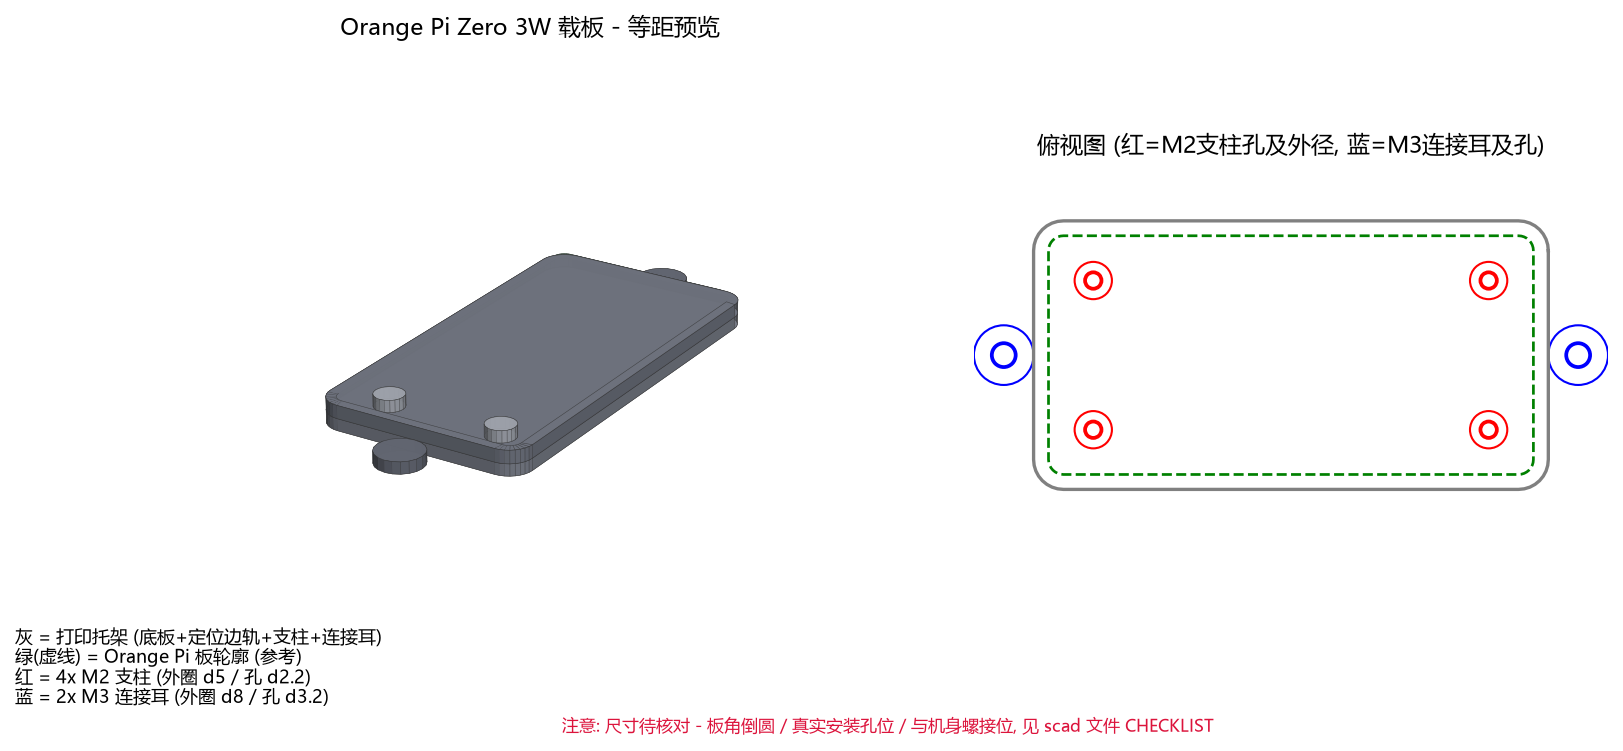
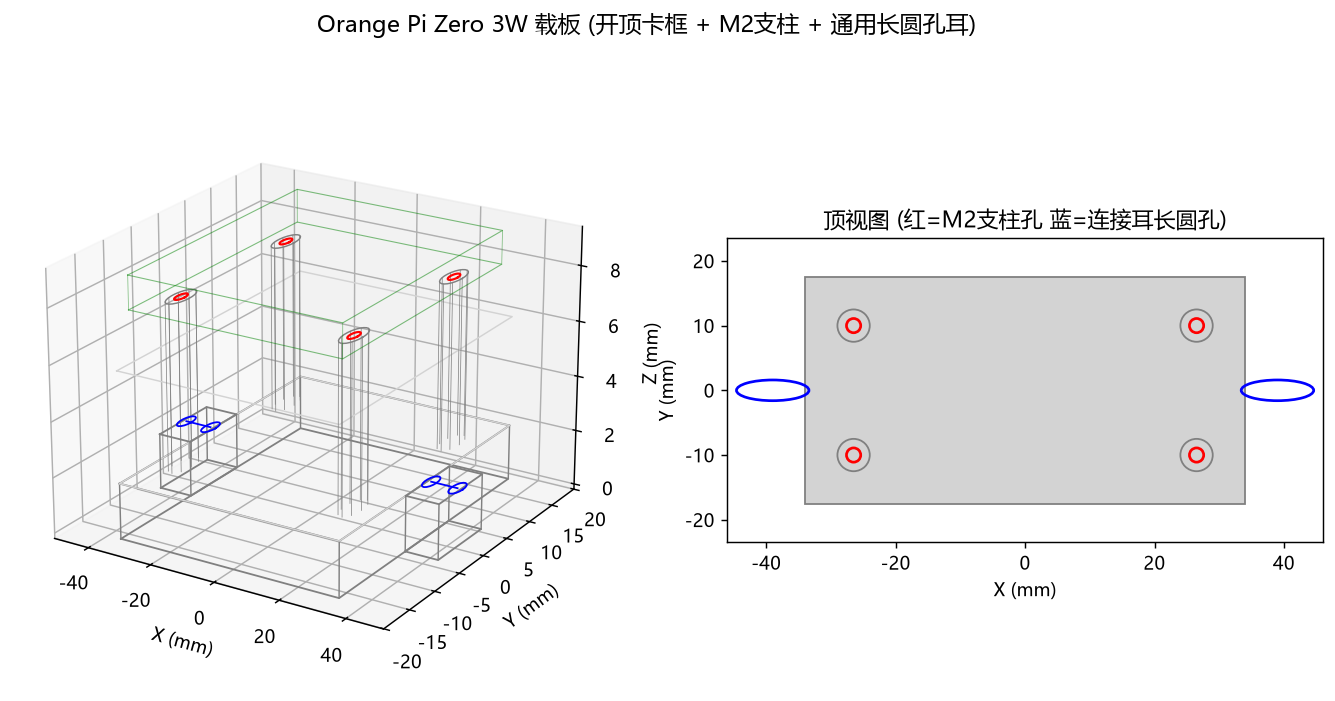
双版本推进: Radxa/OrangePi 总览 + Orange Pi 载板长圆耳
用户指令「两个版本都推进」=> 新增 docs/hardware/microduck-双版本推进-Radxa与OrangePi-2026-11-06.md: 两路机械/电气/进度/下一步并排, 含对比表。

Orange Pi 载板连接耳升级为通用长圆孔耳 (沿 x ±4mm 可调, M3/扎带固定, 不依赖精确螺接位即可打样): scad 加 slot_2d/lug_ear 模块, 渲染脚本改画长圆 (Ellipse), 重渲 2D 俯视图确认两蓝耳对称、四红孔在板内。

Radxa 版机械零改动 (作者 CAD 实机即 Radxa) + 40-pin 兼容 RPi HAT + 总线 1Mbps 可行 + 15 颗 EEPROM 免写, 已闭环; Orange Pi 版载板保留为专属件。待授权: 拉 418MB STEP 定准螺接位 / 装 OpenSCAD 导 STL / 核 kissqy HAT UART 引脚。

diff --git a/cad/render_carrier.py b/cad/render_carrier.py
@@ -1,171 +1,129 @@
-# -*- coding: utf-8 -*-
+"""Render cad/orangepi_zero3w_carrier.scad as a preview PNG (isometric + 2D top).
+
+Pure matplotlib reconstruction of the OpenSCAD geometry -- no OpenSCAD/cadquery needed.
+Geometry parameters MUST stay in sync with the .scad file.
 """
-渲染 cad/orangepi_zero3w_carrier.scad 定义的那块载板的"效果图"。
-本机无 OpenSCAD/cadquery, 故用 matplotlib 按 scad 参数重建几何并做等距渲染。
-输出: cad/orangepi_zero3w_carrier_preview.png
-参数与 scad 文件保持一致 (改图先改 scad, 这里只是看效果)。
-"""
-import os
-import math
-import numpy as np
 import matplotlib
 matplotlib.use("Agg")
 import matplotlib.pyplot as plt
 from matplotlib import font_manager
-from matplotlib.patches import Circle
-from mpl_toolkits.mplot3d.art3d import Poly3DCollection
+from matplotlib.patches import Ellipse, Rectangle, Circle
+import numpy as np
+import math
+import os
 
-# 注册一个系统中文字体 (避免标注乱码)
-for fp in (r"C:/Windows/Fonts/msyh.ttc", r"C:/Windows/Fonts/msyhbd.ttc",
-           r"C:/Windows/Fonts/simhei.ttf"):
+# 注册中文字体（避免方块）
+for fp in [r"C:/Windows/Fonts/msyh.ttc", r"C:/Windows/Fonts/msyhbd.ttc"]:
     if os.path.exists(fp):
         font_manager.fontManager.addfont(fp)
-        plt.rcParams["font.sans-serif"] = ["Microsoft YaHei", "SimHei"]
+        plt.rcParams["font.sans-serif"] = ["Microsoft YaHei"]
         plt.rcParams["axes.unicode_minus"] = False
         break
 
-# ---- 参数 (与 orangepi_zero3w_carrier.scad 同步) ----
-BOARD_L, BOARD_W, BOARD_T, BOARD_R = 65.0, 32.0, 1.2, 2.0
-wall, base_t, rail_h = 2.0, 2.0, BOARD_T + 1.0
-stand_h, screw_d, tol = 2.0, 2.2, 0.3
-# 坐标系: 板中心在原点; 四角内缩 6mm
-standoffs = [(-(BOARD_L / 2 - 6.0), -(BOARD_W / 2 - 6.0)),
-             (BOARD_L / 2 - 6.0, -(BOARD_W / 2 - 6.0)),
-             (-(BOARD_L / 2 - 6.0), BOARD_W / 2 - 6.0),
-             (BOARD_L / 2 - 6.0, BOARD_W / 2 - 6.0)]
-lug_d = 3.2
-# 连接耳: 左右伸出, 居中 (y=0)
-lugs = [(-(BOARD_L / 2 + wall + 4.0), 0), (BOARD_L / 2 + wall + 4.0, 0)]
-
-LIGHT = np.array([0.4, 0.5, 0.78]); LIGHT /= np.linalg.norm(LIGHT)
-
-
-def rr_pts(l, w, r, seg=8):
-    """圆角矩形轮廓, 闭合 (逆时针采样)。"""
-    r2 = min(r, min(l, w) / 2 - 0.01)
-    hw, hh = l / 2, w / 2
-    corners = [(hw - r2, hh - r2), (-hw + r2, hh - r2),
-               (-hw + r2, -hh + r2), (hw - r2, -hh + r2)]
-    a0 = [0, 90, 180, 270]
-    pts = []
-    for (cx, cy), a in zip(corners, a0):
-        for k in range(seg + 1):
-            ang = (a + k * 90.0 / seg) * math.pi / 180
-            pts.append((cx + r2 * math.cos(ang), cy + r2 * math.sin(ang)))
-    return pts
+# ---- geometry (kept in sync with orangepi_zero3w_carrier.scad) ----
+BOARD_L, BOARD_W, BOARD_R, BOARD_T = 65.0, 32.0, 2.0, 1.2
+wall, tol, base_t, rail_h, stand_h = 1.5, 0.3, 2.0, 4.0, 6.0
+screw_d, standoff_d = 2.2, 5.0
+lug_d, lug_slot, lug_w, lug_ext = 3.2, 8.0, 9.0, 10.0
+standoffs = [
+    (-(BOARD_L / 2 - 6.0), -(BOARD_W / 2 - 6.0)),
+    (BOARD_L / 2 - 6.0, -(BOARD_W / 2 - 6.0)),
+    (-(BOARD_L / 2 - 6.0), BOARD_W / 2 - 6.0),
+    (BOARD_L / 2 - 6.0, BOARD_W / 2 - 6.0),
+]
+lugs = [
+    (-(BOARD_L / 2 + wall + lug_ext / 2), 0),
+    (BOARD_L / 2 + wall + lug_ext / 2, 0),
+]
+bx_out, by_out = BOARD_L / 2 + wall, BOARD_W / 2 + wall
 
 
-def extrude(pts, z0, z1):
-    n = len(pts)
-    out = []
-    for i in range(n):
-        j = (i + 1) % n
-        out.append([(*pts[i], z0), (*pts[j], z0), (*pts[j], z1), (*pts[i], z1)])
-    out.append([(*p, z1) for p in pts])
-    out.append([(*p, z0) for p in pts])
-    return out
+def rect_corners(x0, y0, x1, y1):
+    return [(x0, y0), (x1, y0), (x1, y1), (x0, y1), (x0, y0)]
 
 
-def ring(pts_out, pts_in, z):
-    n = len(pts_out)
-    out = []
-    for i in range(n):
-        j = (i + 1) % n
-        out.append([(*pts_out[i], z), (*pts_out[j], z), (*pts_in[j], z), (*pts_in[i], z)])
-    return out
+def draw_3d(ax):
+    # base plate
+    c = rect_corners(-bx_out, -by_out, bx_out, by_out)
+    for z in (0.0, base_t):
+        xs = [p[0] for p in c]; ys = [p[1] for p in c]
+        ax.plot(xs, ys, [z] * 5, color="gray", lw=1)
+    for p in c[:-1]:
+        ax.plot([p[0], p[0]], [p[1], p[1]], [0, base_t], color="gray", lw=0.8)
+    # rail
+    z2 = base_t + rail_h
+    for z in (base_t, z2):
+        xs = [p[0] for p in c]; ys = [p[1] for p in c]
+        ax.plot(xs, ys, [z] * 5, color="lightgray", lw=0.8)
+    # standoffs (M2)
+    for cx, cy in standoffs:
+        zz = base_t
+        for ang in range(0, 360, 40):
+            a = math.radians(ang)
+            x = cx + standoff_d / 2 * math.cos(a); y = cy + standoff_d / 2 * math.sin(a)
+            ax.plot([x, x], [y, y], [zz, zz + stand_h], color="gray", lw=0.4)
+        th = np.linspace(0, 2 * math.pi, 24)
+        ax.plot(cx + standoff_d / 2 * np.cos(th), cy + standoff_d / 2 * np.sin(th),
+                [zz + stand_h] * 24, color="gray", lw=0.8)
+        ax.plot(cx + screw_d / 2 * np.cos(th), cy + screw_d / 2 * np.sin(th),
+                [zz + stand_h] * 24, color="red", lw=1.2)
+    # lugs (rect ear + slot)
+    for cx, cy in lugs:
+        ex0, ex1 = cx - lug_ext / 2, cx + lug_ext / 2
+        ey0, ey1 = cy - lug_w / 2, cy + lug_w / 2
+        ce = rect_corners(ex0, ey0, ex1, ey1)
+        for z in (0.0, base_t):
+            xs = [p[0] for p in ce]; ys = [p[1] for p in ce]
+            ax.plot(xs, ys, [z] * 5, color="gray", lw=1)
+        for p in ce[:-1]:
+            ax.plot([p[0], p[0]], [p[1], p[1]], [0, base_t], color="gray", lw=0.8)
+        th = np.linspace(0, 2 * math.pi, 18)
+        for exx in (cx - lug_slot / 2, cx + lug_slot / 2):
+            ax.plot(exx + lug_d / 2 * np.cos(th), cy + lug_d / 2 * np.sin(th),
+                    [base_t] * 18, color="blue", lw=1)
+        ax.plot([cx - lug_slot / 2, cx + lug_slot / 2], [cy, cy],
+                [base_t, base_t], color="blue", lw=1)
+    # board ref (green, not printed)
+    cb = rect_corners(-BOARD_L / 2, -BOARD_W / 2, BOARD_L / 2, BOARD_W / 2)
+    zt = base_t + stand_h
+    xs = [p[0] for p in cb]; ys = [p[1] for p in cb]
+    ax.plot(xs, ys, [zt] * 5, color="green", lw=0.6, alpha=0.5)
+    ax.plot(xs, ys, [zt + BOARD_T] * 5, color="green", lw=0.6, alpha=0.5)
+    for p in cb[:-1]:
+        ax.plot([p[0], p[0]], [p[1], p[1]], [zt, zt + BOARD_T], color="green", lw=0.4, alpha=0.5)
+    ax.set_xlabel("X (mm)"); ax.set_ylabel("Y (mm)"); ax.set_zlabel("Z (mm)")
+    ax.view_init(elev=22, azim=-58)
 
 
-def cylinder(cx, cy, r, h, z0, seg=20):
-    pts = [(cx + r * math.cos(2 * math.pi * k / seg),
-            cy + r * math.sin(2 * math.pi * k / seg)) for k in range(seg)]
-    return extrude(pts, z0, z0 + h)
+def draw_2d(ax):
+    ax.add_patch(Rectangle((-bx_out, -by_out), 2 * bx_out, 2 * by_out,
+                           facecolor="lightgray", edgecolor="gray", lw=1))
+    for cx, cy in standoffs:
+        ax.add_patch(Circle((cx, cy), standoff_d / 2, fill=False, edgecolor="gray", lw=1))
+        ax.add_patch(Circle((cx, cy), screw_d / 2, fill=False, edgecolor="red", lw=1.5))
+    for cx, cy in lugs:
+        ax.add_patch(Ellipse((cx, cy), lug_slot + lug_d, lug_d,
+                             fill=False, edgecolor="blue", lw=1.5))
+    ax.set_xlim(-bx_out - 12, bx_out + 12)
+    ax.set_ylim(-by_out - 6, by_out + 6)
+    ax.set_aspect("equal")
+    ax.set_xlabel("X (mm)"); ax.set_ylabel("Y (mm)")
+    ax.set_title("顶视图 (红=M2支柱孔 蓝=连接耳长圆孔)")
 
 
-# ---- 组装几何 (3D) ----
-polys = []
-out_base = rr_pts(BOARD_L + 2 * wall, BOARD_W + 2 * wall, BOARD_R + wall)
-polys += [(p, (0.55, 0.57, 0.62)) for p in extrude(out_base, 0, base_t)]
-out_rail = rr_pts(BOARD_L + 2 * wall, BOARD_W + 2 * wall, BOARD_R + wall)
-in_rail = rr_pts(BOARD_L + 2 * tol, BOARD_W + 2 * tol, BOARD_R)
-polys += [(p, (0.50, 0.52, 0.57)) for p in extrude(out_rail, base_t, base_t + rail_h)]
-polys += [(p, (0.50, 0.52, 0.57)) for p in ring(out_rail, in_rail, base_t + rail_h)]
-for sx, sy in standoffs:
-    polys += [(p, (0.72, 0.74, 0.78)) for p in cylinder(sx, sy, 2.5, stand_h, base_t)]
-for gx, gy in lugs:
-    polys += [(p, (0.45, 0.47, 0.52)) for p in cylinder(gx, gy, 4.0, base_t, 0)]
-br = rr_pts(BOARD_L, BOARD_W, BOARD_R)
-board_polys = [(p, (0.10, 0.70, 0.25)) for p in
-               extrude(br, base_t + stand_h, base_t + stand_h + BOARD_T)]
+def main():
+    fig = plt.figure(figsize=(13, 6))
+    ax1 = fig.add_subplot(1, 2, 1, projection="3d")
+    ax2 = fig.add_subplot(1, 2, 2)
+    draw_3d(ax1)
+    draw_2d(ax2)
+    fig.suptitle("Orange Pi Zero 3W 载板 (开顶卡框 + M2支柱 + 通用长圆孔耳)",
+                 fontsize=13)
+    out = os.path.join(os.path.dirname(__file__),
+                       "orangepi_zero3w_carrier_preview.png")
+    fig.savefig(out, dpi=130, bbox_inches="tight")
+    print("wrote", out)
 
 
-def shade(poly, base):
-    p = np.array(poly, "float64")
-    n = np.cross(p[1] - p[0], p[2] - p[0])
-    ln = np.linalg.norm(n)
-    if ln < 1e-9:
-        n = np.array([0, 0, 1])
-    else:
-        n = n / ln
-    intensity = 0.35 + 0.65 * abs(np.dot(n, LIGHT))
-    return tuple(min(1.0, c * intensity) for c in base)
-
-
-def add_coll(ax, plist, alpha=0.96):
-    verts = [np.array(p) for p, _ in plist]
-    cols = [shade(p, b) for p, b in plist]
-    pc = Poly3DCollection(verts, alpha=alpha, facecolor=cols,
-                          linewidths=0.25, edgecolors=(0.2, 0.2, 0.2, 0.8))
-    ax.add_collection3d(pc)
-
-
-span_x = BOARD_L + 2 * wall + 16
-span_y = BOARD_W + 2 * wall + 16
-span_z = base_t + stand_h + BOARD_T + 3
-
-fig = plt.figure(figsize=(12, 5.4), dpi=150)
-ax1 = fig.add_subplot(1, 2, 1, projection="3d")
-ax2 = fig.add_subplot(1, 2, 2)
-
-# 等距立体图
-add_coll(ax1, polys, alpha=0.96)
-add_coll(ax1, board_polys, alpha=0.38)
-ax1.view_init(elev=24, azim=32)
-ax1.set_box_aspect((span_x, span_y, span_z))
-ax1.set_xlim(-span_x / 2, span_x / 2)
-ax1.set_ylim(-span_y / 2, span_y / 2)
-ax1.set_zlim(0, span_z)
-ax1.set_axis_off()
-ax1.set_title("Orange Pi Zero 3W 载板 - 等距预览", fontsize=11, pad=4)
-
-# 2D 俯视图 (无遮挡, 精确标孔位)
-ax2.set_aspect("equal")
-ax2.axis("off")
-bo = rr_pts(BOARD_L + 2 * wall, BOARD_W + 2 * wall, BOARD_R + wall)
-ax2.plot([p[0] for p in bo] + [bo[0][0]], [p[1] for p in bo] + [bo[0][1]],
-         color="gray", lw=1.6)
-bb = rr_pts(BOARD_L, BOARD_W, BOARD_R)
-ax2.plot([p[0] for p in bb] + [bb[0][0]], [p[1] for p in bb] + [bb[0][1]],
-         color="green", lw=1.3, ls="--")
-for (sx, sy) in standoffs:
-    ax2.add_patch(Circle((sx, sy), 2.5, fill=False, ec="red", lw=1.0))
-    ax2.add_patch(Circle((sx, sy), screw_d / 2, fill=False, ec="red", lw=1.8))
-for (gx, gy) in lugs:
-    ax2.add_patch(Circle((gx, gy), 4.0, fill=False, ec="blue", lw=1.0))
-    ax2.add_patch(Circle((gx, gy), lug_d / 2, fill=False, ec="blue", lw=1.8))
-ax2.set_xlim(-span_x / 2, span_x / 2)
-ax2.set_ylim(-span_y / 2, span_y / 2)
-ax2.set_title("俯视图 (红=M2支柱孔及外径, 蓝=M3连接耳及孔)", fontsize=11, pad=4)
-
-fig.text(0.015, 0.06,
-         "灰 = 打印托架 (底板+定位边轨+支柱+连接耳)\n"
-         "绿(虚线) = Orange Pi 板轮廓 (参考)\n"
-         "红 = 4x M2 支柱 (外圈 d5 / 孔 d2.2)\n"
-         "蓝 = 2x M3 连接耳 (外圈 d8 / 孔 d3.2)",
-         fontsize=8.5, va="bottom")
-fig.text(0.50, 0.03,
-         "注意: 尺寸待核对 - 板角倒圆 / 真实安装孔位 / 与机身螺接位, 见 scad 文件 CHECKLIST",
-         fontsize=8, color="crimson", ha="center")
-
-out_png = "cad/orangepi_zero3w_carrier_preview.png"
-fig.savefig(out_png, dpi=150, bbox_inches="tight", facecolor="white")
-print("wrote", out_png)
+if __name__ == "__main__":
+    main()

diff --git a/docs/hardware/microduck-双版本推进-Radxa与OrangePi-2026-11-06.md b/docs/hardware/microduck-双版本推进-Radxa与OrangePi-2026-11-06.md
@@ -1,0 +1,73 @@
+# 双版本推进总览：Radxa Zero 3W vs Orange Pi Zero 3W
+
+_2026-11-06。用户指令「两个版本都推进」。本文把两条主控路线的机械件适配、电气兼容、当前进度与下一步并排写清，作为 `microduck-飞特版3D打印件-OrangePi适配清单-2026-11-06.md` 的上层总览。_
+
+## 0. 结论速览
+
+- **两版都值得推进，不是二选一**：
+  - **Radxa 版** = 与作者 CAD（fanhao375 飞特版）+ kissqy 镜像**完全对齐**，机械件零改动、舵机总线 1 Mbps 直接可行。
+  - **Orange Pi 版** = 板子便宜/现成、板型与 Pi Zero 孔距一致（仅宽 2 mm），但 **40-pin 电气不兼容 RPi HAT**、**A733 总线限 500 kbps**，需自建主板载板。
+- **机械件层面**：Radxa 版直接用 fanhao375 飞特版 v2.2（它实机就是 Radxa）；Orange Pi 版用本仓自建的 `cad/orangepi_zero3w_carrier.scad`。
+
+## 1. 两版关键参数对比
+
+| 维度 | Radxa Zero 3W（RK3566） | Orange Pi Zero 3W（A733） |
+|---|---|---|
+| 板型尺寸 | 65 × 30 mm（Pi Zero 板型） | 65 × 32 mm（孔距与 Pi Zero 一致，仅宽 2 mm） |
+| 40-pin GPIO | 官方确认「compatible with most SBC accessories」（docs.radxa.com）；GPIO 3.3 V | 引脚定义 ≠ 树莓派（第三方评测确认孔距一致但电气定义不同） |
+| 舵机总线波特率 | RK3566 UART 支持 1 Mbps（kissqy 实机跑 1 Mbps，上游主仓在 Zero 3W 上跑 1 Mbps） | A733 UART7 分频限制（`feetech.rs:34` 原话 *1 Mbit/s is not*）→ 只能 500 kbps |
+| 机械件 | **零改动**：fanhao375 飞特版 CAD 实机即 Radxa（README 第 357 行） | 主板托架/HAT 支架/摄像头支架需自建（本仓 `cad/orangepi_zero3w_carrier.scad`） |
+| HAT | 可直插 RPi 形态 kissqy HAT（40-pin 物理兼容） | 不能直插（40-pin 定义不同）；需转接或绕开 |
+| 现有软件镜像 | kissqy V167/ fanhao 镜像本就是 Radxa，开箱即用 | 需验证或自建；总线 500k 需改 `BAUD_RATE` 常量 |
+| 主要风险 | HAT 舵机总线 UART 需避开 Pin 8/10 调试串口 | HAT 出路（转接/绕开）+ 连接耳螺接位待定 |
+
+## 2. Orange Pi Zero 3W 版（A733）
+
+### 2.1 机械件（自建中）
+
+- 作者飞特版按 Radxa（Pi Zero 板型 65×30）建模；Orange Pi（65×32）**孔距一致、仅宽 2 mm** → 开顶卡框容得下 2 mm 边余量，躯干/腿/壳/头/电池 31 件直接通用。
+- 真正要自建的是 **主板托架 / HAT 支架 / 摄像头支架** 三处（飞特版按 RPi 做）。本仓已建 `cad/orangepi_zero3w_carrier.scad`（参数化、开顶卡框 + 四角 M2 支柱 + **通用可调长圆孔连接耳**），并渲染 `cad/orangepi_zero3w_carrier_preview.png`（已修过坐标系 bug，2D 俯视图确认 4 红孔在板内、2 蓝耳对称）。
+- 连接耳当前为「通用耳」：长圆孔沿 x 方向 ±4 mm 可调，装机时微调后用 M3 螺丝或扎带固定到飞特版躯干，**不依赖精确螺接位即可打样**。
+
+### 2.2 电气兼容性（已查，硬约束）
+
+- **40-pin 定义 ≠ 树莓派** → BOM 第 3 项「树莓派机器人 HAT」不能直插。
+- **A733 UART7 分频限制** → 舵机总线只能 500 kbps（这是那块板的分频限制，不是舵机的；`feetech.rs:34` 原文针对 A733，与 Radxa 无关）。
+- 三条出路（已在适配清单列）：**A** 主板改回 Radxa（零机械改动）/ **B** 重做 HAT 接口 / **C** 绕开 HAT 用 URT-2 + imu_to_dxl 小板（本仓阶段 2 默认）。推荐 **C** 若坚持 Orange Pi。
+
+### 2.3 当前进度与下一步
+
+- ✅ 载板 scad + 效果图完成（连接耳已升级为通用长圆孔耳）。
+- ⏳ 下一步：① 拉 418 MB `SolidWorks-FT2026-10-20.zip`（含 13 个 STEP + 原 RPi 托架）把连接耳螺接位**定准**（待授权带宽）；② 本机装 OpenSCAD 把 scad 导出可打印 STL；③ 电气定 HAT 出路（推荐 C 绕开 HAT）。
+
+## 3. Radxa Zero 3W 版（RK3566）
+
+### 3.1 机械件（零改动，已闭环）
+
+- 作者 fanhao375 飞特版 CAD **实机主控就是 Radxa Zero 3W**（README 第 357 行：Radxa Zero 3W，RK3566，Pi Zero 板型 65×30）。
+- kissqy 镜像主控也是 Radxa（本仓裁决纪要 + HD1910 软件方案 §11.5 确认）。
+- ⇒ 33 打印件 + 原 RPi 托架**直接用**，无需自建任何机械件。本仓 Orange Pi 载板在该路线下**作废**（仅作为 Orange Pi 分支的专用件保留）。
+
+### 3.2 电气兼容性（已查，可行）
+
+- 40-pin **官方确认兼容 RPi 配件**（docs.radxa.com 原话 *compatible with most SBC accessories on the market*），GPIO 电压 3.3 V（最高 3.63 V）。
+- ⚠ 但 **Pin 8 / 10 = UART2_M0**，是**调试串口 / 默认 U-Boot 控制台**（默认 1.5 Mbps），官方**不建议用作普通 UART**（会中断启动）。RK3566 其他 UART（如 Pin 16/18 = UART4_M1、Pin 32/33 = UART5_M1）可用。
+- 总线 1 Mbps 可行：RK3566 datasheet 写 UART "up to 4 Mbps"，kissqy 实机在 Radxa 上跑 1 Mbps 舵机总线（ttyS2），上游主仓也在 Zero 3W 上跑 1 Mbps。
+- ⇒ 15 颗舵机 EEPROM **一颗都不用写**（`feetech.rs:34` 的 500k 限制是 A733 的，非 Radxa）；`BAUD_RATE` 保持 1 Mbps，`BAUD_REGISTER_VALUE` 保持 0。
+
+### 3.3 当前进度与下一步
+
+- ✅ 机械零改动确认 + 40-pin 兼容确认 + 1 Mbps 可行确认 + EEPROM 免写确认。
+- ⏳ 下一步：① 核 **kissqy HAT 的舵机总线接到 Radxa 哪个物理 UART**（避开 Pin 8/10 调试串口；本地 kissqy 资料只有 docs 无 PCB 引脚表，需查其硬件工程）；② 备料：Radxa ZERO 3W 2GB + kissqy HAT + fanhao375 飞特版打印件。
+
+## 4. 决策建议
+
+- **想最快跑通**：走 **Radxa**（零机械改动 + kissqy 镜像开箱 + 总线 1 Mbps）。
+- **想压价 / 用现成 Orange Pi**：走 **Orange Pi**（载板已建，但 HAT 需转接或绕开，总线限 500k）。
+- 两条路共用：HD-1910 舵机（凸盘，飞特版 v2.2 已适配）、2S 电池、URT-2 调试板。
+
+## 5. 待授权的大动作
+
+- 拉 418 MB `SolidWorks-FT2026-10-20.zip`（GitHub Releases），只读 `pcb__raspberry_pi_zero_2_w` 相关 STEP / 原 RPi 托架，定准 Orange Pi 连接耳螺接位。
+- 本机装 OpenSCAD，把 `cad/orangepi_zero3w_carrier.scad` 渲染导出可打印 STL。
+- 查 kissqy 硬件工程确认 HAT 舵机总线 UART 引脚（Radxa 路线落地必查）。
